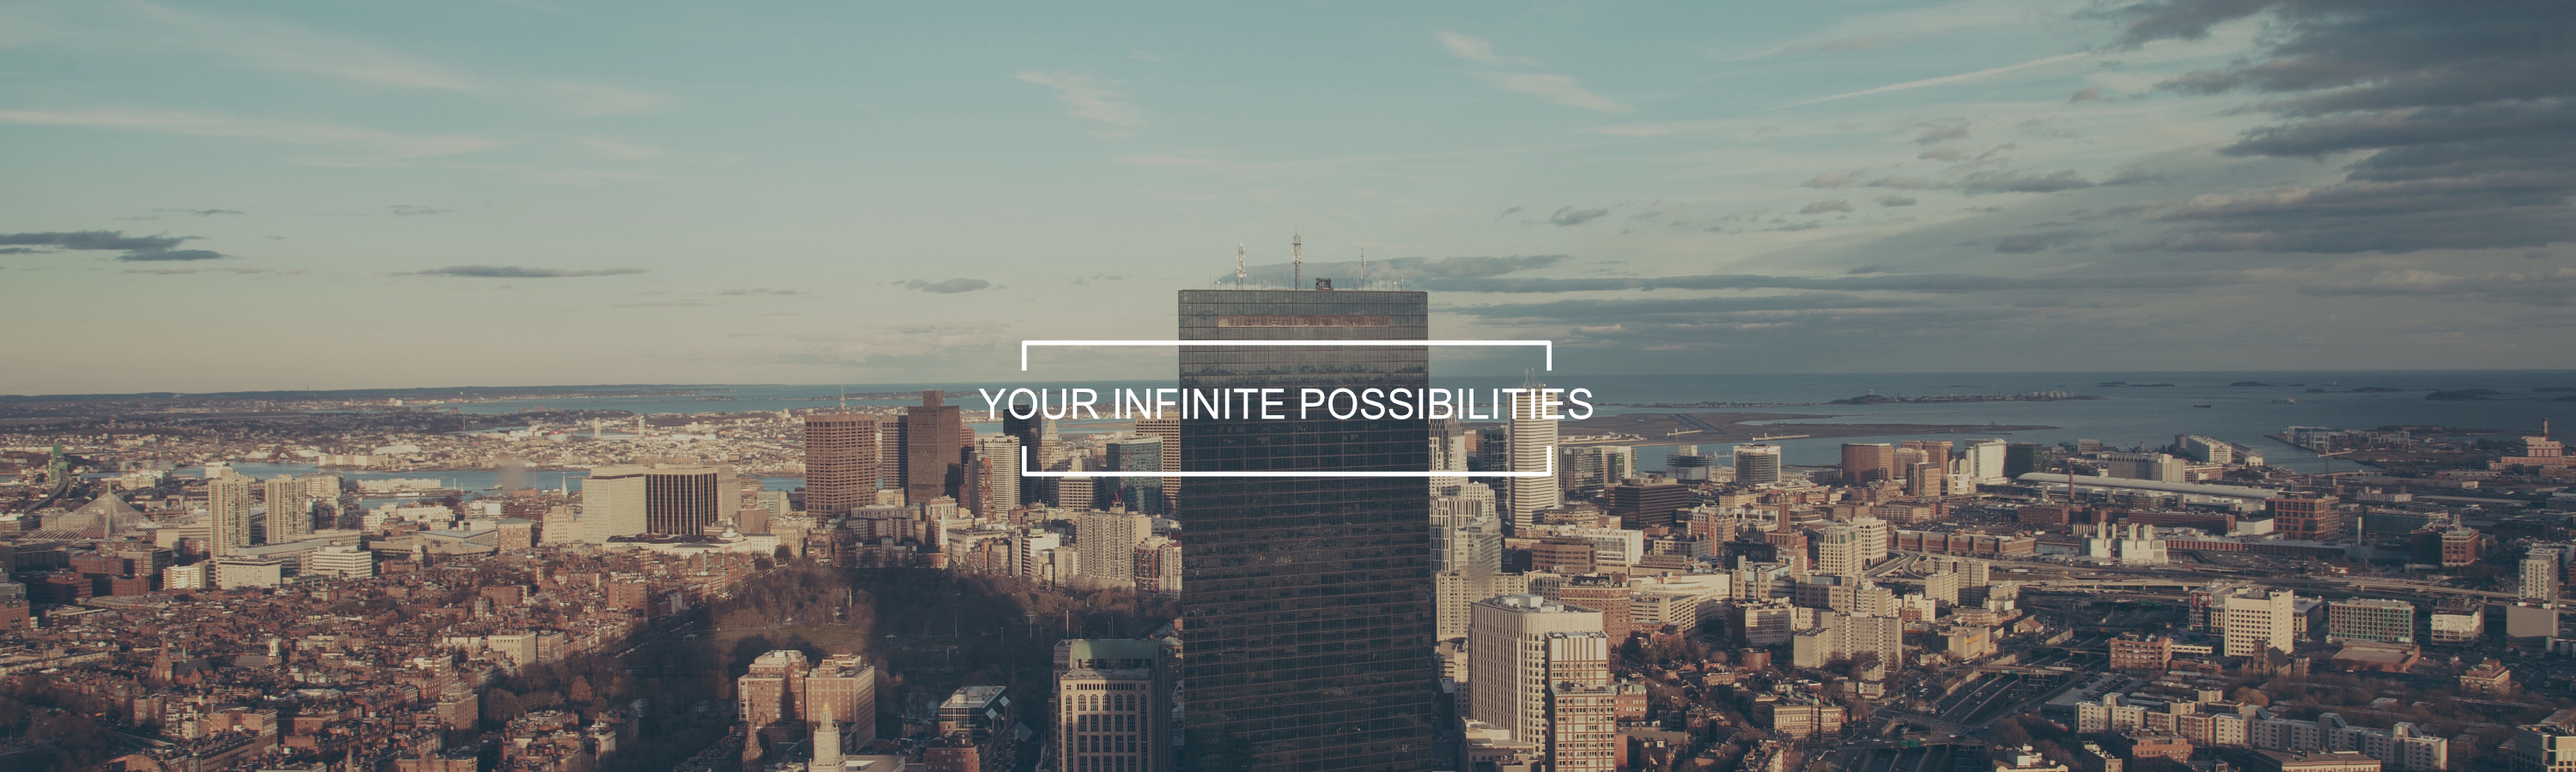
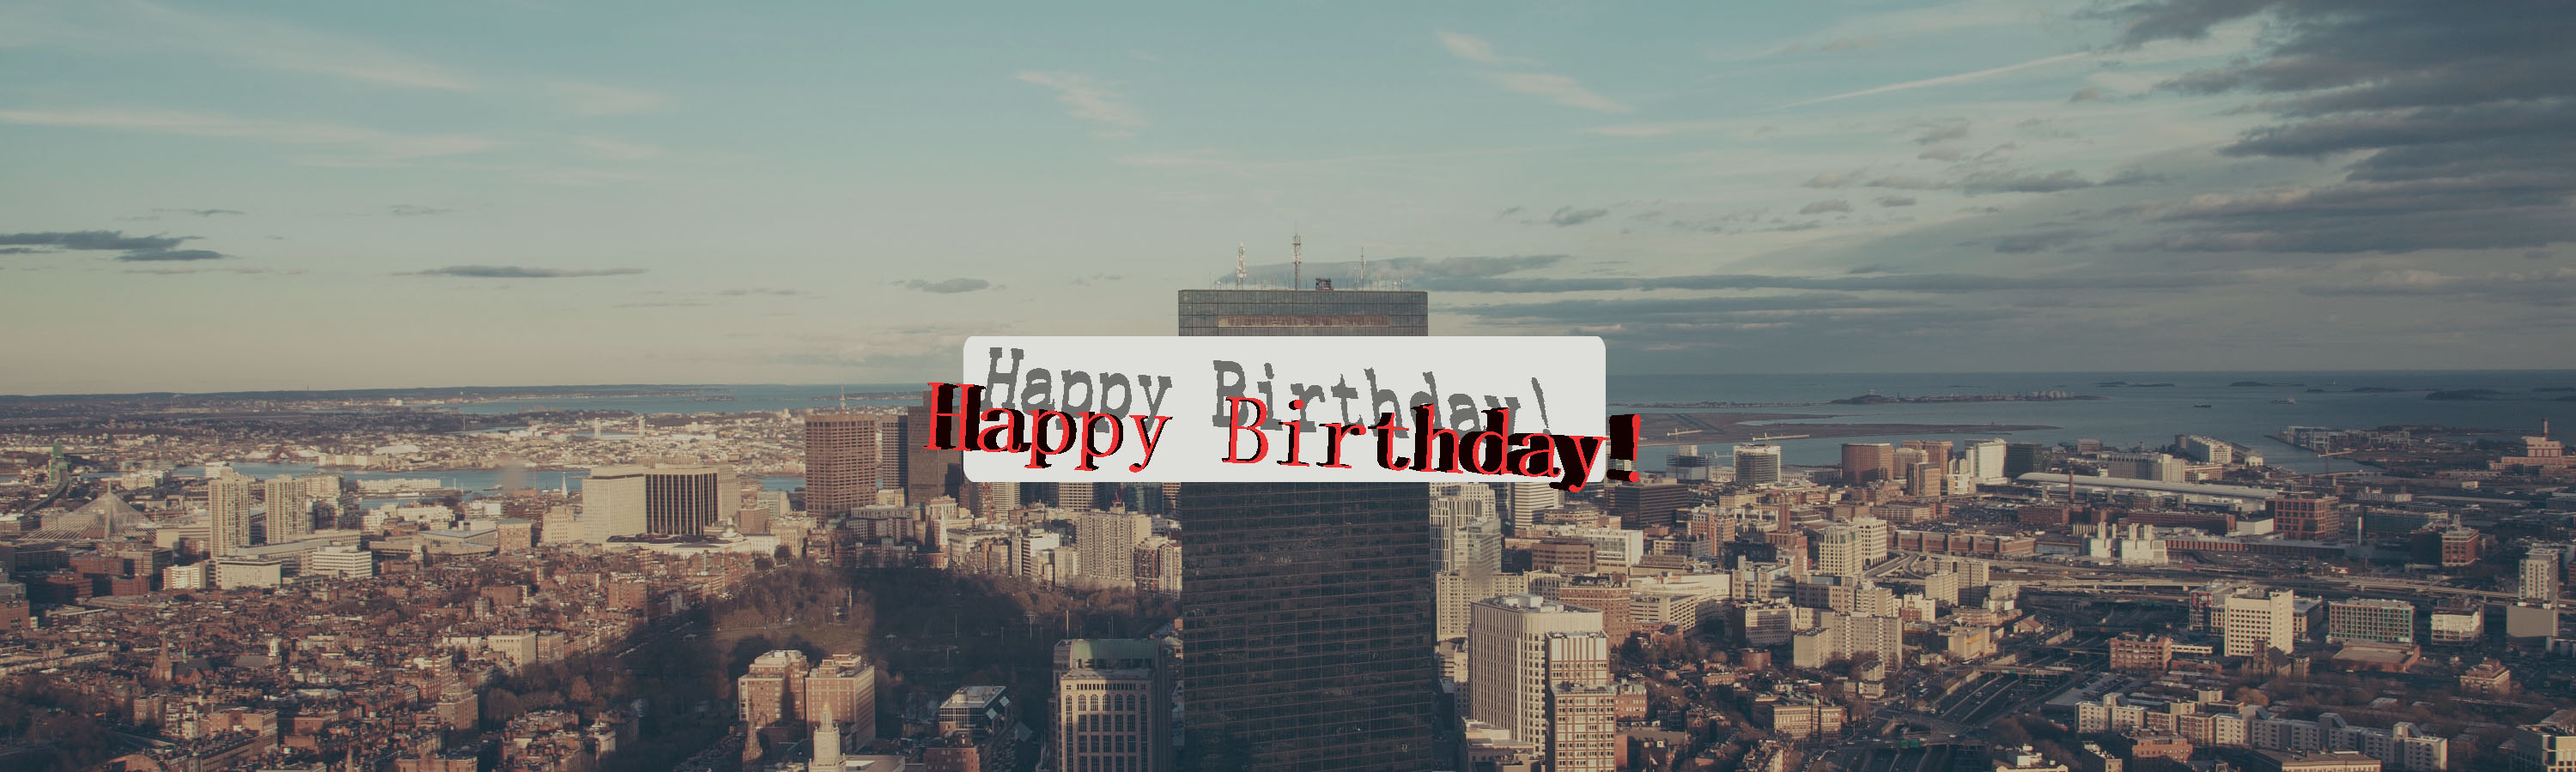
GIF img

Changed region(s): [[0.341, 0.4356, 0.651, 0.6533]]

diff --git a/index.html b/index.html
@@ -2,14 +2,32 @@
 <html>
 <head>
     <meta charset="utf-8">
-    <title>First landing web page</title>
+    <title>Mom,Happy Birthday!</title>
     <link rel="stylesheet" href="css/semantic.css" media="screen" title="no title" charset="utf-8">
 </head>
 <body>
     <div class="ui fixed inverted menu">
-        <a href="images/devices2.png" class="item">Home</a>
-        <a href="images/devices2.png" class="item">About</a>
-        <a href="images/devices2.png" class="item">Other</a> 
+        <a href="#" class="item">—————————————————————————————</a>
+        <a href="#" class="item">M</a>
+        <a href="#" class="item">O</a>
+        <a href="#" class="item">M</a>
+        <a href="#" class="item">,</a>
+        <a href="#" class="item">H</a>
+        <a href="#" class="item">A</a>
+        <a href="#" class="item">P</a>
+        <a href="#" class="item">P</a>
+        <a href="#" class="item">Y</a>
+        <a href="#" class="item"> </a>
+        <a href="#" class="item">B</a>
+        <a href="#" class="item">I</a>
+        <a href="#" class="item">R</a>
+        <a href="#" class="item">T</a>
+        <a href="#" class="item">H</a>
+        <a href="#" class="item">D</a>
+        <a href="#" class="item">A</a>
+        <a href="#" class="item">Y</a>
+        <a href="#" class="item">!</a>
+        <a href="#" class="item">——————————————————————————————</a>
         <embed src="hb.mp3" autostart="true" loop="-1" controls="ControlPanel" width="0" height="0" >
         </embed>
     </div>
@@ -23,7 +41,7 @@
         <div class="ui grid">
             <div class="ten wide column">
                 <div class="ui image">
-                    <img src="images/devices2.png" alt="">
+                    <img src="images/devices2.jpg" alt="">
                 </div>
             </div>
             <div class="six wide column">
